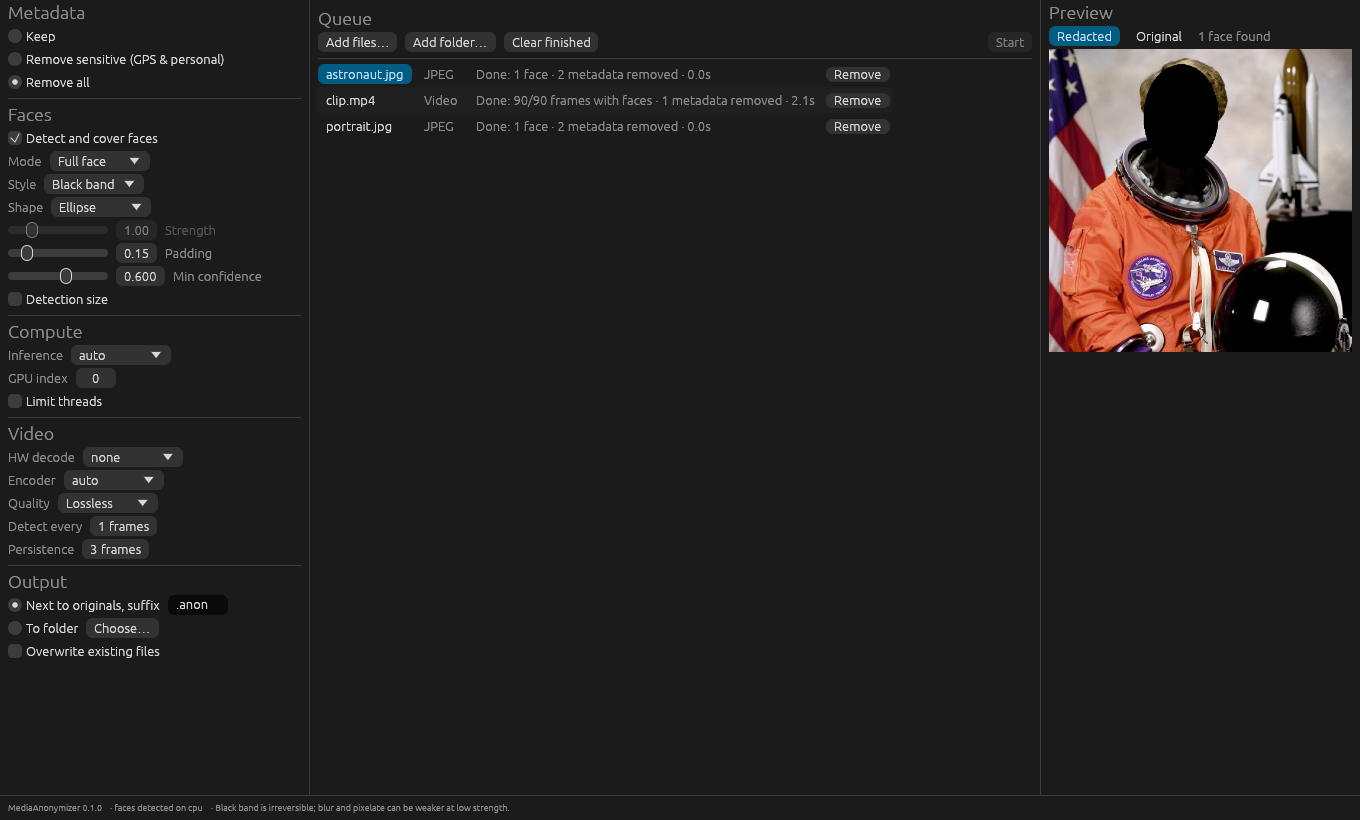
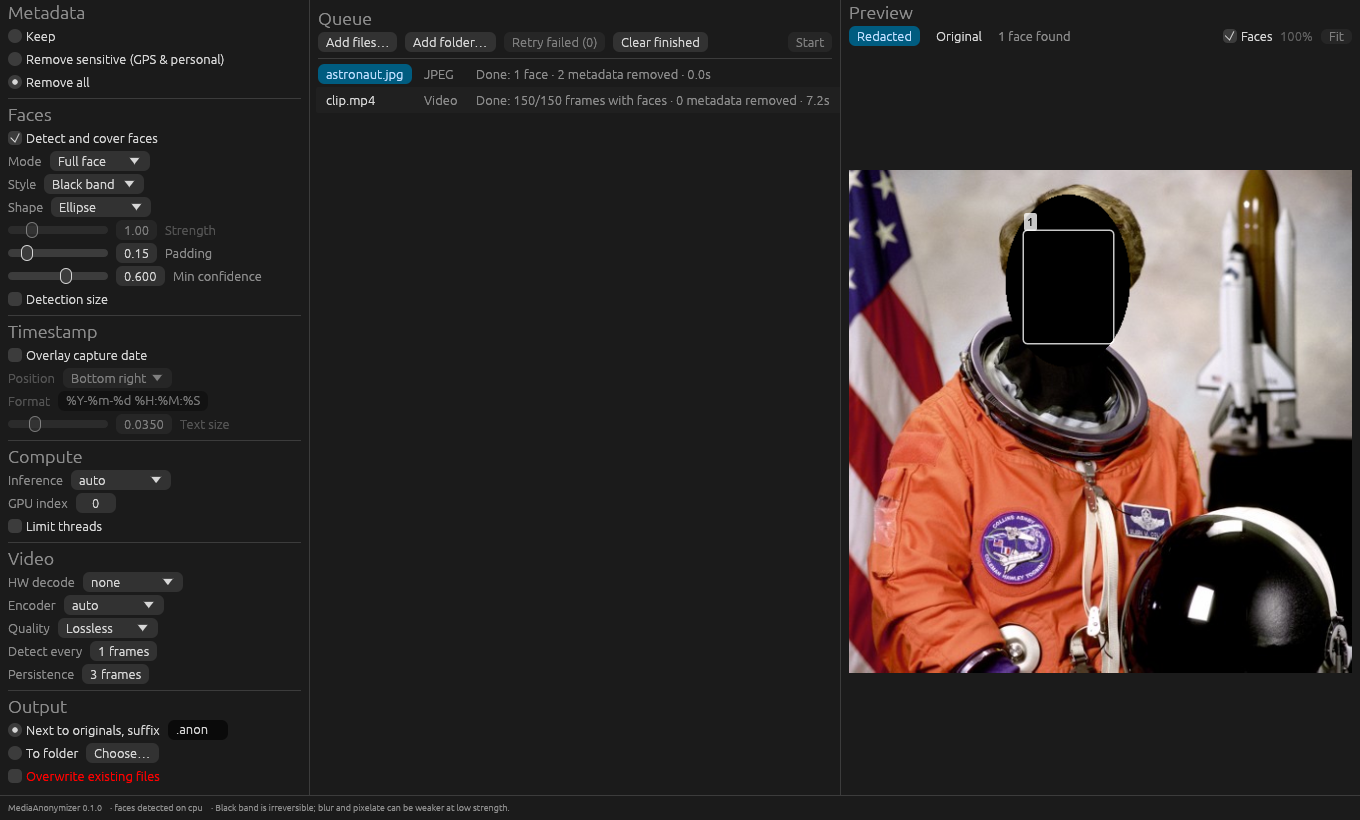
Improve screenshots

diff --git a/crates/gui/src/app.rs b/crates/gui/src/app.rs
@@ -78,6 +78,7 @@ impl App {
         let settings = cc.storage.and_then(|s| eframe::get_value(s, SETTINGS_KEY)).unwrap_or_default();
         let mut queue = Queue::default();
         queue.add_paths(files);
+        startup_edits(&mut queue);
         let selected = queue.items.iter().position(|i| i.is_image() || i.is_video());
         let (info_tx, info_rx) = channel();
         let (track_tx, track_rx) = channel();
@@ -594,6 +595,32 @@ impl App {
                 }
                 *done.lock().unwrap_or_else(|e| e.into_inner()) = true;
             });
+        }
+    }
+}
+
+/// Applies `MEDIAANON_GUI_EDITS` (a timeline file, as for the CLI's
+/// `--timeline`) and `MEDIAANON_GUI_POSITION` (playhead, in seconds) to the
+/// files given on the command line. Used to script documentation screenshots.
+fn startup_edits(queue: &mut Queue) {
+    if let Some(path) = std::env::var_os("MEDIAANON_GUI_EDITS").filter(|p| !p.is_empty()) {
+        let edits = std::fs::read_to_string(&path)
+            .map_err(|e| e.to_string())
+            .and_then(|text| serde_json::from_str::<Edits>(&text).map_err(|e| e.to_string()))
+            .and_then(|e| e.validate().map(|()| e).map_err(|e| e.to_string()));
+        match edits {
+            Ok(edits) => {
+                for item in queue.items.iter_mut().filter(|i| i.is_video() || i.is_image()) {
+                    item.edits = edits.clone();
+                }
+            }
+            Err(e) => tracing::error!("MEDIAANON_GUI_EDITS {}: {e}", PathBuf::from(path).display()),
+        }
+    }
+    let position = std::env::var("MEDIAANON_GUI_POSITION").ok().and_then(|p| p.parse::<f64>().ok());
+    if let Some(t) = position.filter(|t| t.is_finite() && *t >= 0.0) {
+        for item in queue.items.iter_mut().filter(|i| i.is_video()) {
+            item.position = t;
         }
     }
 }

diff --git a/docs/GUI.md b/docs/GUI.md
@@ -71,6 +71,8 @@ change. Scrub through the video to check, and click a face again where it was lo
 **Video timeline**: selecting a video shows the frame under the playhead and, below it, a
 timeline:
 
+![Video timeline with keyframes](images/gui-timeline.png)
+
 - Click or drag on the timeline to pick a frame; the preview shows that frame with the
   settings of its section (the detection runs on that frame alone; the real output also
   smooths detections over neighbouring frames). The buttons step one frame, jump to the
@@ -136,14 +138,16 @@ XDG desktop portal, so no GTK development packages are needed to build.
 | --- | --- |
 | `MEDIAANON_LOG` | Log filter, for example `info` or `debug` (logs go to stderr). |
 | `MEDIAANON_GUI_AUTOSTART=1` | Start processing the queue as soon as the window opens. |
-| `MEDIAANON_GUI_SCREENSHOT=out.png` | Save a screenshot once the preview (and any auto-started run) is ready, then exit. It doesn't read or write your saved settings. It's used to produce the image above. |
+| `MEDIAANON_GUI_SCREENSHOT=out.png` | Save a screenshot once the preview (and any auto-started run) is ready, then exit. It doesn't read or write your saved settings. It's used to produce the images above. |
+| `MEDIAANON_GUI_EDITS=edits.json` | Apply this timeline file (same format as the CLI's `--timeline`) to the files given on the command line. |
+| `MEDIAANON_GUI_POSITION=seconds` | Start the playhead of the videos given on the command line at this time. |
 
-The documentation screenshot was produced headless with:
+The documentation screenshots (`docs/images/gui.png`, `docs/images/gui-timeline.png`) are
+produced by a script, which makes the demo media from files in the repository and runs
+headless under `xvfb-run` on Linux. Run it after every change to the interface:
 
 ```sh
-Xvfb :99 -screen 0 1400x900x24 &
-DISPLAY=:99 LIBGL_ALWAYS_SOFTWARE=1 MEDIAANON_GUI_AUTOSTART=1 \
-  MEDIAANON_GUI_SCREENSHOT=docs/images/gui.png mediaanon-gui demo-folder/
+scripts/gui_screenshots.sh
 ```
 
 ## Code layout

diff --git a/README.md b/README.md
@@ -124,6 +124,9 @@ the library and the CLI. Add `--features coreml`, `cuda` or `directml` for GPU
 face detection, then choose the device under **Compute → Inference**. See
 [docs/GUI.md](docs/GUI.md) for a tour of the interface.
 
+<p align="center"><img src="docs/images/gui-timeline.png" alt="Video timeline: keyframes, a cut section, and the section settings in the left panel" width="85%"></p>
+<p align="center"><em>Video timeline: each keyframe starts a section with its own face settings, or cuts it out.</em></p>
+
 Platform prerequisites:
 
 * **macOS** 13.4 or newer: Xcode Command Line Tools (`xcode-select --install`) and, for

diff --git a/CONTRIBUTING.md b/CONTRIBUTING.md
@@ -36,6 +36,8 @@ cargo test --workspace
 * Add tests for new behaviour. Metadata rules need a unit test with a
   hand-built sample (see `metadata/exif.rs` and `metadata/jpeg.rs`), pipeline
   changes an integration test in `crates/core/tests`.
+* GUI changes: run `scripts/gui_screenshots.sh` to refresh the screenshots in
+  `docs/images/` (used by README.md and docs/GUI.md) and update docs/GUI.md.
 * Keep [docs/PRIVACY.md](docs/PRIVACY.md) in sync with any change to what is
   removed or kept, and update [CHANGELOG.md](CHANGELOG.md).
 * Do not commit personal photos or videos. Test fixtures must be public domain

diff --git a/CHANGELOG.md b/CHANGELOG.md
@@ -13,6 +13,9 @@ All notable changes are documented here. The format follows
   under the timeline. Keyframes are added or removed with one button (**K**),
   dragged to move them and deleted from their right-click menu (or
   **Delete**).
+- GUI screenshots are generated by `scripts/gui_screenshots.sh`; the README
+  and docs/GUI.md show the video timeline too. `MEDIAANON_GUI_EDITS` and
+  `MEDIAANON_GUI_POSITION` preload a timeline and the playhead.
 
 ### Added
 
